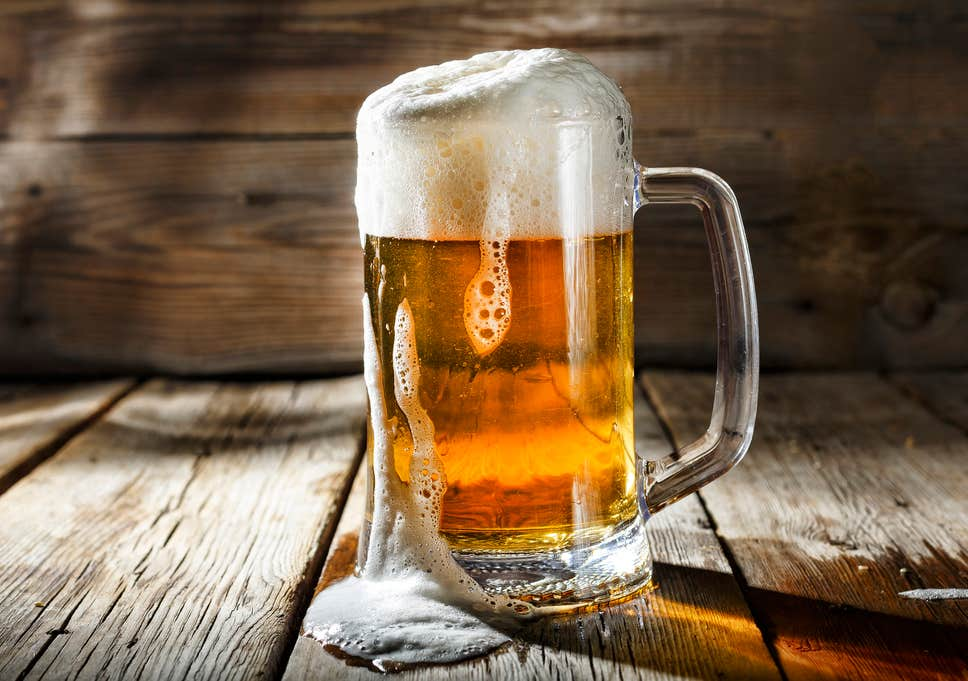
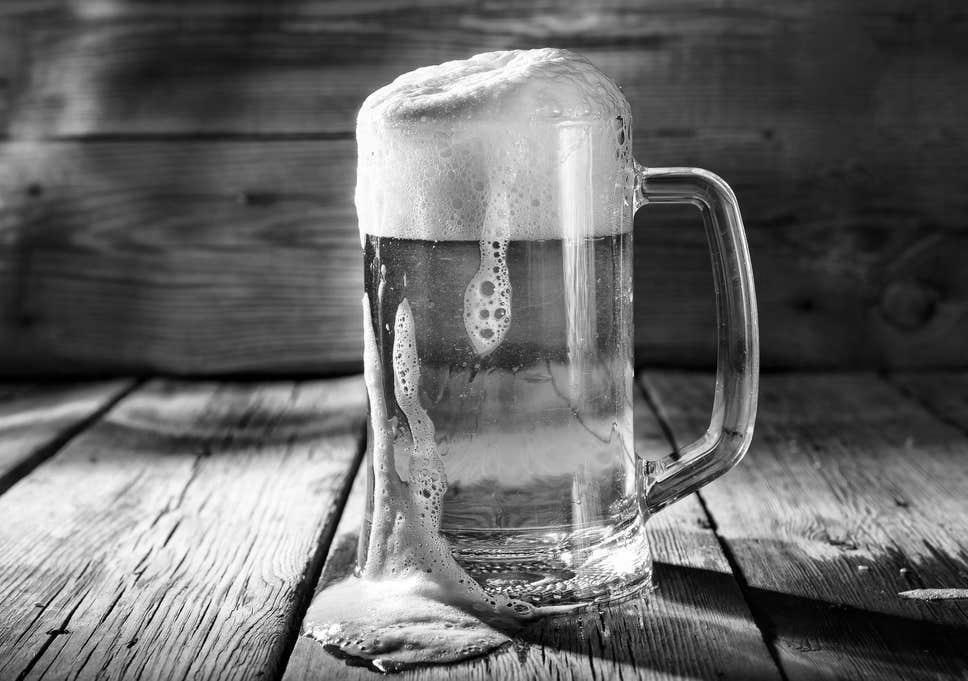
se agregan filtros

diff --git a/src/Program/Program.cs b/src/Program/Program.cs
@@ -8,6 +8,24 @@ namespace CompAndDel
     {
         static void Main(string[] args)
         {
+            PictureProvider provider = new PictureProvider();
+            IPicture picture = provider.GetPicture(@"beer.jpg");          
+            IPipe pipeNull = new PipeNull();
+            
+            IFilter filterNegative = new FilterNegative();
+            IPipe pipeSerialTres = new PipeSerial(filterNegative, pipeNull);
+            
+             
+            IFilter saveFilter = new FilterSave();
+            IPipe pipeSerialDos = new PipeSerial(saveFilter, pipeSerialTres);
+            
+
+            IFilter filterGreyscale = new FilterGreyscale();
+            IPipe pipeSerialUno = new PipeSerial(filterGreyscale, pipeSerialDos);
+            
+            IPicture image = pipeSerialUno.Send(picture);
+
+            provider.SavePicture(image, @"beer2.jpg");       
         }
     }
 }

diff --git a/src/Library/Filters/FilterSave.cs b/src/Library/Filters/FilterSave.cs
@@ -1,0 +1,19 @@
+using System;
+
+namespace CompAndDel.Filters
+{
+    public class FilterSave : IFilter
+    {
+        private int cont = 0;
+        public IPicture Filter(IPicture image)
+        {
+            PictureProvider provider = new PictureProvider();
+
+            provider.SavePicture(image, @"intermediateFilter" +cont+".jpg");
+            
+            cont++;
+            
+            return image;
+        }
+    }
+}

diff --git a/src/Library/Filters/FilterTwitter.cs b/src/Library/Filters/FilterTwitter.cs
@@ -1,0 +1,15 @@
+using System;
+using TwitterUCU;
+
+namespace CompAndDel.Filters
+{
+    public class FilterTwitter : IFilter
+    {
+        public IPicture Filter(IPicture image)
+        {
+            TwitterImage twitterImage = new TwitterImage();
+
+            
+        }
+    }
+}
